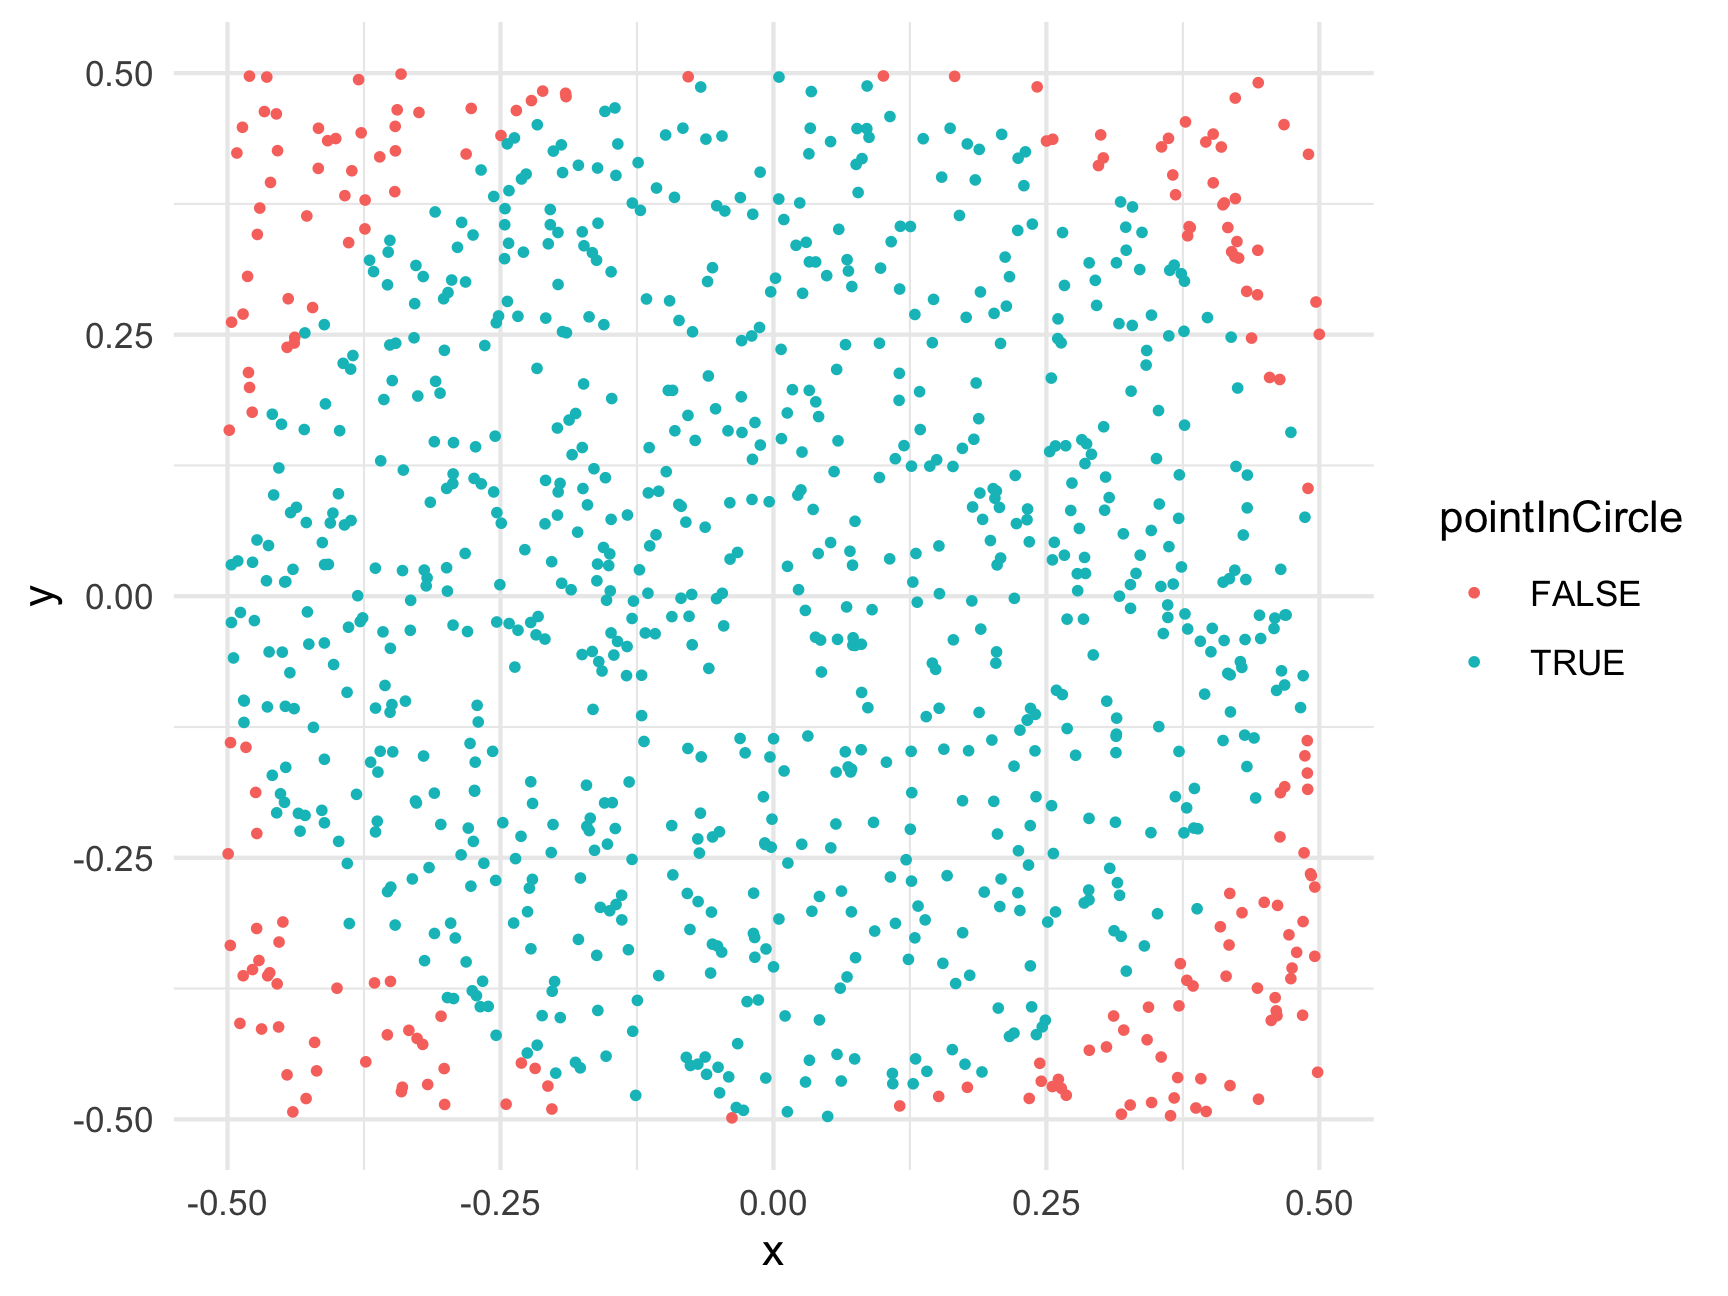
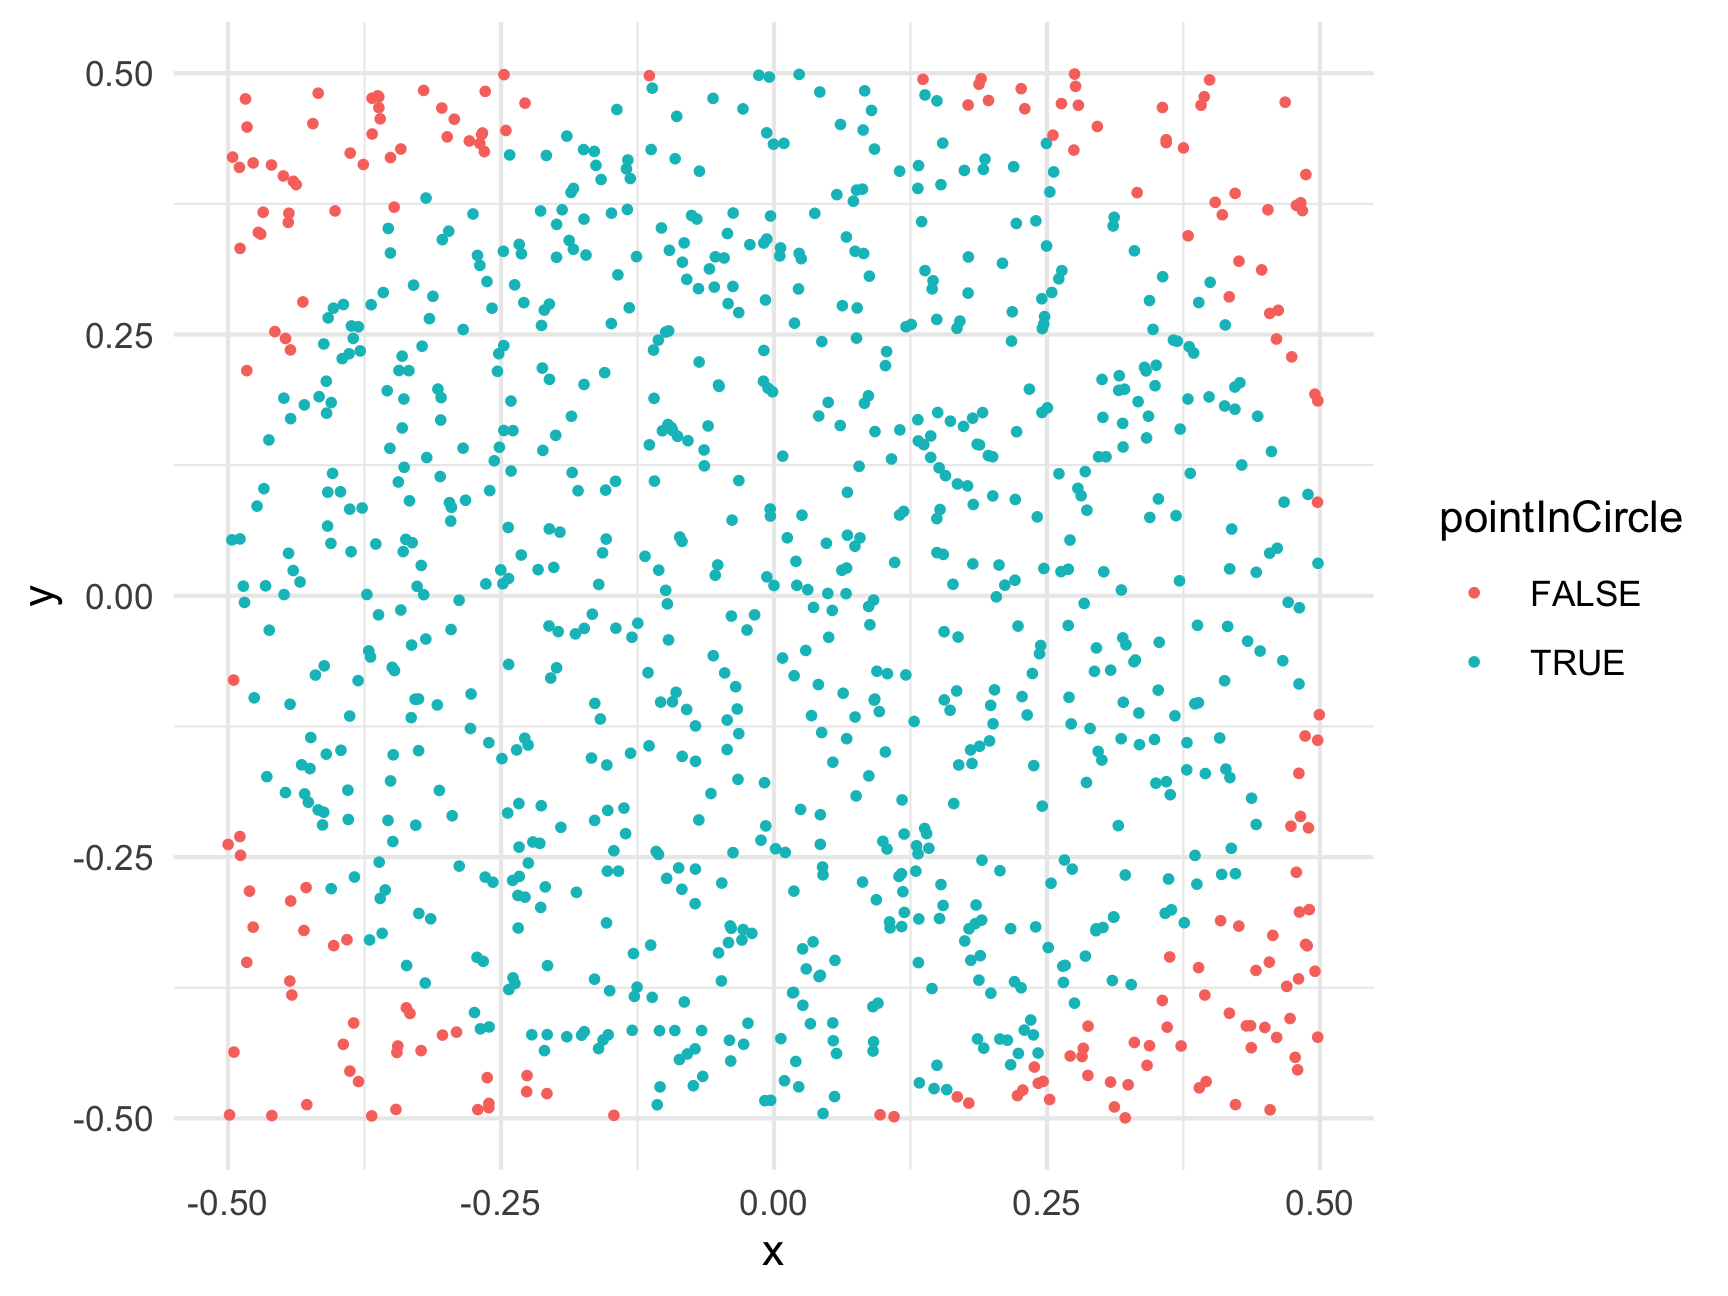
Deploying to gh-pages from  @ 5df71fcea409697c29d6be83326a45aa565b0933 🚀

Changed region(s): [[0.125, 0.0617, 0.7812, 0.8642], [0.4375, 0.0309, 0.4688, 0.0617], [0.0625, 0.6481, 0.0938, 0.679]]

diff --git a/hw4-conditionals-testing.html b/hw4-conditionals-testing.html
@@ -656,7 +656,103 @@ $(document).ready(function () {
 </div>
 
 
-<p>Coming soon!</p>
+<blockquote>
+<p><strong>Due</strong>: February 09 by 11:59pm</p>
+<p><strong>Submit</strong>: To submit this assignment, create a zip file of all the files in your R project folder for this assignment. Name the zip file <code>hw4-netID.zip</code>, replacing <code>netID</code> with your netID (e.g., <code>hw4-jph.zip</code>). Use <a href="https://u.pcloud.com/#page=puplink&amp;code=5VYkZffcAIs7IEbYpIHvaob9Ab5Q4TAvy">this link</a> to submit your file.</p>
+<p><strong>Weight</strong>: This assignment is worth 5% of your final grade.</p>
+<p><strong>Purpose</strong>: The purposes of this assignment are:</p>
+<ul>
+<li>To practice using conditional statements while writing functions in R.</li>
+<li>To practice the skill of writing and using test functions to understand the problem.</li>
+<li>To practice computational problem solving.</li>
+</ul>
+<p><strong>Assessment</strong>: Each question indicates the % of the assignment grade, summing to 100%. The credit for each question will be assigned as follows:</p>
+<ul>
+<li>0% for not attempting a response.</li>
+<li>50% for attempting the question but with <em>major</em> errors.</li>
+<li>75% for attempting the question but with <em>minor</em> errors.</li>
+<li>100% for correctly answering the question.</li>
+</ul>
+<p>The reflection portion is always worth 10% and graded for completion.</p>
+<p><strong>Rules</strong>:</p>
+<ul>
+<li>Problems marked <strong>SOLO</strong> may not be worked on with other classmates, though you may consult instructors for help.</li>
+<li>For problems marked <strong>COLLABORATIVE</strong>, you may work in groups of up to 3 students who are in this course this semester. You may not split up the work – everyone must work on every problem. And you may not simply copy any code but rather truly work together and submit your own solutions.</li>
+</ul>
+</blockquote>
+<blockquote>
+<h3 id="using-the-autograder">Using the <a href="autograder.html">autograder</a></h3>
+<ul>
+<li>You can check your solutions to problems 2 - 7 by logging into the <a href="autograder.html">autograder</a> and uploading your <code>hw4.R</code> file.</li>
+<li><strong>The file must be named <code>hw4.R</code> or it won’t work.</strong></li>
+<li>Your user name is your netID, and your password is inside the <code>readme.txt</code> file in the Box folder I shared with you.</li>
+</ul>
+</blockquote>
+<div id="staying-organized-solo-5" class="section level3">
+<h3>1) Staying organized [SOLO, 5%]</h3>
+<p>Download and use <a href="templates/hw4.zip">this template</a> for your assignment. Inside the “hw4” folder, open and edit the R script called “hw4.R” and fill out your name, Net ID, and the names of anyone you worked with on this assignment.</p>
+<blockquote>
+<h3 id="writing-test-functions"><strong>Writing test functions</strong></h3>
+<p>For each of the following functions, write a test function first, and then write the function. <strong>Your test functions will count for half of the available credit for each problem</strong>. Think carefully about the test cases to include in your test functions.</p>
+</blockquote>
+</div>
+<div id="guessanimalhasfourlegs-climbstrees-solo-10" class="section level3">
+<h3>2) <code>guessAnimal(hasFourLegs, climbsTrees)</code> [SOLO, 10%]</h3>
+<p>Write the function <code>guessAnimal(hasFourLegs, climbsTrees)</code> that returns a statement guessing an animal based on whether it has four legs and whether it climbs trees. Here is the expected behavior:</p>
+<div style="width:500px">
+<table>
+<thead>
+<tr class="header">
+<th><code>hasFourLegs</code></th>
+<th><code>climbsTrees</code></th>
+<th>statement</th>
+</tr>
+</thead>
+<tbody>
+<tr class="odd">
+<td><code>TRUE</code></td>
+<td><code>TRUE</code></td>
+<td>“It’s probably a cat”</td>
+</tr>
+<tr class="even">
+<td><code>TRUE</code></td>
+<td><code>FALSE</code></td>
+<td>“It’s probably a dog”</td>
+</tr>
+<tr class="odd">
+<td><code>FALSE</code></td>
+<td><code>TRUE</code></td>
+<td>“It’s probably a snake”</td>
+</tr>
+<tr class="even">
+<td><code>FALSE</code></td>
+<td><code>FALSE</code></td>
+<td>“Hmm, I’m not sure”</td>
+</tr>
+</tbody>
+</table>
+</div>
+</div>
+<div id="ispositivemultipleof4or7n-solo-15" class="section level3">
+<h3>3) <code>isPositiveMultipleOf4Or7(n)</code> [SOLO, 15%]</h3>
+<p>Write the function <code>isPositiveMultipleOf4Or7(n)</code> that returns <code>TRUE</code> if <code>n</code> is a positive multiple of 4 or 7 and <code>FALSE</code> otherwise. Note than <code>n</code> could be any data type.</p>
+</div>
+<div id="isevenpositiveintx-collaborative-20" class="section level3">
+<h3>4) <code>isEvenPositiveInt(x)</code> [COLLABORATIVE, 20%]</h3>
+<p>Given an arbitrary value <code>x</code>, return <code>TRUE</code> if it is an integer, and it is positive, and it is even (all 3 must be true), or <code>FALSE</code> otherwise. If the value <code>x</code> is not an integer, the function should return <code>FALSE</code> rather than error. So, <code>isEvenPositiveInt("yikes!")</code> returns <code>FALSE</code>, and <code>isEvenPositiveInt(123456)</code> returns <code>TRUE</code>.</p>
+</div>
+<div id="isleapyearyear-solo-20" class="section level3">
+<h3>5) <code>isLeapYear(year)</code> [SOLO, 20%]</h3>
+<p>Write the function <code>isLeapYear(year)</code> that returns <code>TRUE</code> if <code>year</code> is a <a href="https://www.mathsisfun.com/leap-years.html">leap year</a> and <code>FALSE</code> otherwise. Assume that <code>year</code> is a positive integer.</p>
+</div>
+<div id="getthecentsn-collaborative-20" class="section level3">
+<h3>6) <code>getTheCents(n)</code> [COLLABORATIVE, 20%]</h3>
+<p>Write the function <code>getTheCents(n)</code> which takes a value <code>n</code> that represents a payment in US dollars and returns the number of cents in the payment. For example, if <code>n</code> is <code>2.45</code>, the function should return <code>45</code>. If <code>n</code> is an integer, the function should return <code>0</code>, as it has <code>0</code> cents; if it isn’t a number, it should return <code>NULL</code>, because a non-number payment make no cents (ha!). If the payment has partial cents (for example, <code>3.953</code>), it should be rounded to the nearest cent (in this case, <code>95</code> cents).</p>
+</div>
+<div id="read-and-reflect-solo-10" class="section level3">
+<h3>7) Read and reflect [SOLO, 10%]</h3>
+<p>Read and reflect on next week’s readings on <a href="r5-iteration.html">iteration</a>. Afterwards, in a comment (<code>#</code>) in your R file, write a short reflection on what you’ve learned and any questions or points of confusion you have about what we’ve covered thus far. This can just few a few sentences related to this assignment, next week’s readings, things going on in the world that remind you something from class, etc. If there’s anything that jumped out at you, write it down.</p>
+</div>
 
 <hr>
 

diff --git a/r13-monte-carlo-methods.html b/r13-monte-carlo-methods.html
@@ -805,11 +805,11 @@ ratio &lt;- sum(belowCurve) / numTrials
 totalArea &lt;- (7 - 3) * 7^2 # Rectangle length x height = 196
 areaUnderCurve &lt;- ratio * totalArea
 areaUnderCurve</code></pre>
-<pre><code>#&gt; [1] 105.5617</code></pre>
-<p>So, using Monte Carlo simulation with 100,000 points, we estimate that the area under the curve is 105.56168. How’d we do? Well, if you’re familiar with calculus, the integral of <span class="math inline">\(f(x) = x^2\)</span> has a closed-form solution (<span class="math inline">\(\frac{x^3}{3} + C\)</span>), so we can check our estimate against the pure-math solution:</p>
+<pre><code>#&gt; [1] 105.4892</code></pre>
+<p>So, using Monte Carlo simulation with 100,000 points, we estimate that the area under the curve is 105.48916. How’d we do? Well, if you’re familiar with calculus, the integral of <span class="math inline">\(f(x) = x^2\)</span> has a closed-form solution (<span class="math inline">\(\frac{x^3}{3} + C\)</span>), so we can check our estimate against the pure-math solution:</p>
 <p><span class="math display">\[\int_{3}^{7} x^2 \mathrm{dx} = \left ( \frac{x^3}{3} \right ) \Big|_3^7 = \frac{7^3}{3} - \frac{3^3}{3} = 105.33\bar{3}\]</span></p>
-<p>So our estimate error is: <code>105.333 -</code> <code>105.56168</code> <code>=</code> <code>-0.2283467</code>.</p>
-<p>That’s an error of just 0.22 % - not bad!</p>
+<p>So our estimate error is: <code>105.333 -</code> <code>105.48916</code> <code>=</code> <code>-0.1558267</code>.</p>
+<p>That’s an error of just 0.15 % - not bad!</p>
 <hr />
 </div>
 <div id="monte-carlo-pi" class="section level1">
@@ -839,13 +839,13 @@ points &lt;- data.frame(
     x = runif(numTrials, -0.5, 0.5),
     y = runif(numTrials, -0.5, 0.5))
 head(points)</code></pre>
-<pre><code>#&gt;            x           y
-#&gt; 1 -0.2174081 -0.03692134
-#&gt; 2 -0.1993691 -0.45585907
-#&gt; 3 -0.1145778  0.09873692
-#&gt; 4 -0.3142383  0.08977851
-#&gt; 5 -0.2936679  0.10767182
-#&gt; 6  0.1153041  0.21302587</code></pre>
+<pre><code>#&gt;             x           y
+#&gt; 1  0.23758939 -0.42013771
+#&gt; 2 -0.26035497  0.10062772
+#&gt; 3 -0.08663497 -0.44374130
+#&gt; 4  0.42265818 -0.48679966
+#&gt; 5 -0.23904837 -0.36556734
+#&gt; 6 -0.36221271 -0.01824987</code></pre>
 <p>For this example, we’re putting the points in a data frame to make it easier to work with. Now that we have random x and y points, let’s compute the radius to each point (the distance from <code>(x, y) = (0, 0)</code>) so we can determine which points fall inside the circle (which has a radius of 0.5):</p>
 <pre class="r"><code>library(dplyr)
 points &lt;- points %&gt;%
@@ -862,9 +862,9 @@ ggplot(points) +
 <pre class="r"><code>ratio &lt;- sum(points$pointInCircle) / nrow(points)
 piApprox &lt;- 4 * ratio
 piApprox</code></pre>
-<pre><code>#&gt; [1] 3.212</code></pre>
-<p>So our estimate error is: <code>3.1415 -</code> <code>3.212</code> <code>=</code> <code>0.0704073</code>.</p>
-<p>That’s an error of just 2.24 % - not bad for only 1,000 points!</p>
+<pre><code>#&gt; [1] 3.236</code></pre>
+<p>So our estimate error is: <code>3.1415 -</code> <code>3.236</code> <code>=</code> <code>0.0944073</code>.</p>
+<p>That’s an error of just 3.01 % - not bad for only 1,000 points!</p>
 <p>To get an even better estimate of <span class="math inline">\(\pi\)</span>, we can increase N. Let’s see what we get with 100,000 trials:</p>
 <pre class="r"><code>numTrials &lt;- 100000
 points &lt;- data.frame(
@@ -876,13 +876,13 @@ points &lt;- data.frame(
 ratio &lt;- sum(points$pointInCircle) / nrow(points)
 piApprox &lt;- 4 * ratio
 piApprox</code></pre>
-<pre><code>#&gt; [1] 3.14276</code></pre>
+<pre><code>#&gt; [1] 3.13036</code></pre>
 <pre class="r"><code># Compute error:
 error &lt;- piApprox - pi
 percentError &lt;- round(100*abs(error / pi), 2)
 percentError</code></pre>
-<pre><code>#&gt; [1] 0.04</code></pre>
-<p>By increasing the number of trials from 1,000 to 100,000, we improved our estimate error from 2.24 % to 0.04 %!</p>
+<pre><code>#&gt; [1] 0.36</code></pre>
+<p>By increasing the number of trials from 1,000 to 100,000, we improved our estimate error from 3.01 % to 0.36 %!</p>
 <hr />
 <p><strong>Page sources</strong>:</p>
 <p>Some content on this page has been modified from other courses, including:</p>

diff --git a/r2-functions-packages.html b/r2-functions-packages.html
@@ -763,7 +763,7 @@ div.tocify {
 <p>Here the letters <code>sqrt</code> are short for “square root,” and the value inside the <code>()</code> is the “argument” to the function. In the example above, the value <code>225</code> is the “argument”.</p>
 <p>Keep in mind that not all functions have (or require) arguments:</p>
 <pre class="r"><code>date() # Returns the current date and time</code></pre>
-<pre><code>#&gt; [1] &quot;Wed Feb  2 17:00:29 2022&quot;</code></pre>
+<pre><code>#&gt; [1] &quot;Wed Feb  2 18:00:45 2022&quot;</code></pre>
 <p>(the date above is the date this page was last built)</p>
 <div id="multiple-arguments" class="section level2">
 <h2>Multiple arguments</h2>
@@ -981,9 +981,9 @@ library(packagename)   # This also works</code></pre>
 <p>Now that you have the package installed on your computer, try loading it using <code>library(wikifacts)</code>, then trying using some of it’s functions:</p>
 <pre class="r"><code>library(wikifacts) # Load the library</code></pre>
 <pre class="r"><code>wiki_randomfact()</code></pre>
-<pre><code>#&gt; [1] &quot;Did you know that on March 1 in 1979 – Philips publicly demonstrated a prototype of an optical digital audio disc at a press conference in Eindhoven, Netherlands. (Courtesy of Wikipedia)&quot;</code></pre>
+<pre><code>#&gt; [1] &quot;Did you know that on January 16 in 1964 – The musical Hello, Dolly! opened at the St. James Theatre on Broadway, and went on to win ten Tony Awards, a record that stood for 37 years. (Courtesy of Wikipedia)&quot;</code></pre>
 <pre class="r"><code>wiki_didyouknow()</code></pre>
-<pre><code>#&gt; [1] &quot;Did you know that Damiano Michieletto, known for directing Rossini&#39;s operas, recently staged Schreker&#39;s Der ferne Klang at the Oper Frankfurt, where the world premiere had been performed in 1912? (Courtesy of Wikipedia)&quot;</code></pre>
+<pre><code>#&gt; [1] &quot;Did you know that the United States Supreme Court&#39;s recent ruling in Sturgeon v. Frost began as a dispute about a hovercraft, but \&quot;the stakes in this case are potentially huge\&quot;? (Courtesy of Wikipedia)&quot;</code></pre>
 <p>In case you’re wondering, the only thing this package does is generate messages containing random facts from <a href="https://www.wikipedia.org/">Wikipedia</a>.</p>
 </div>
 <div id="using-only-some-package-functions" class="section level2">
@@ -994,7 +994,7 @@ library(packagename)   # This also works</code></pre>
 </blockquote>
 <p>Here I use the name of the <em>package</em> followed by <code>::</code> to tell R that I’m looking for a function that is in that package. For example, if I didn’t want to load the whole <strong>wikifacts</strong> library but still wanted to use the <code>wiki_randomfact()</code> function, I could do this:</p>
 <pre class="r"><code>wikifacts::wiki_randomfact()</code></pre>
-<pre><code>#&gt; [1] &quot;Here&#39;s some news from 26 July 2016. A gunman opens fire near a shopping mall in Munich, Germany, killing 9 people and injuring 27 others. (Courtesy of Wikipedia)&quot;</code></pre>
+<pre><code>#&gt; [1] &quot;Here&#39;s some news from 23 November 2019. Amid protests against fuel rationing and price hikes in Iran, dozens of protesters are killed and the government shuts down the internet. (Courtesy of Wikipedia)&quot;</code></pre>
 <p>Where this is particularly handy is when two packages have a function with the same name. If you load both library, R might not know which function to use. In those cases, it’s best to also provide the <strong>package</strong> name. For example, let’s say there was a package called <strong>apples</strong> and another called <strong>bananas</strong>, and each had a function named <code>fruitName()</code>. If I wanted to use each of them in my code, I would need to specify the package names like this:</p>
 <pre class="r"><code>apples::fruitName()
 bananas::fruitName()</code></pre>
